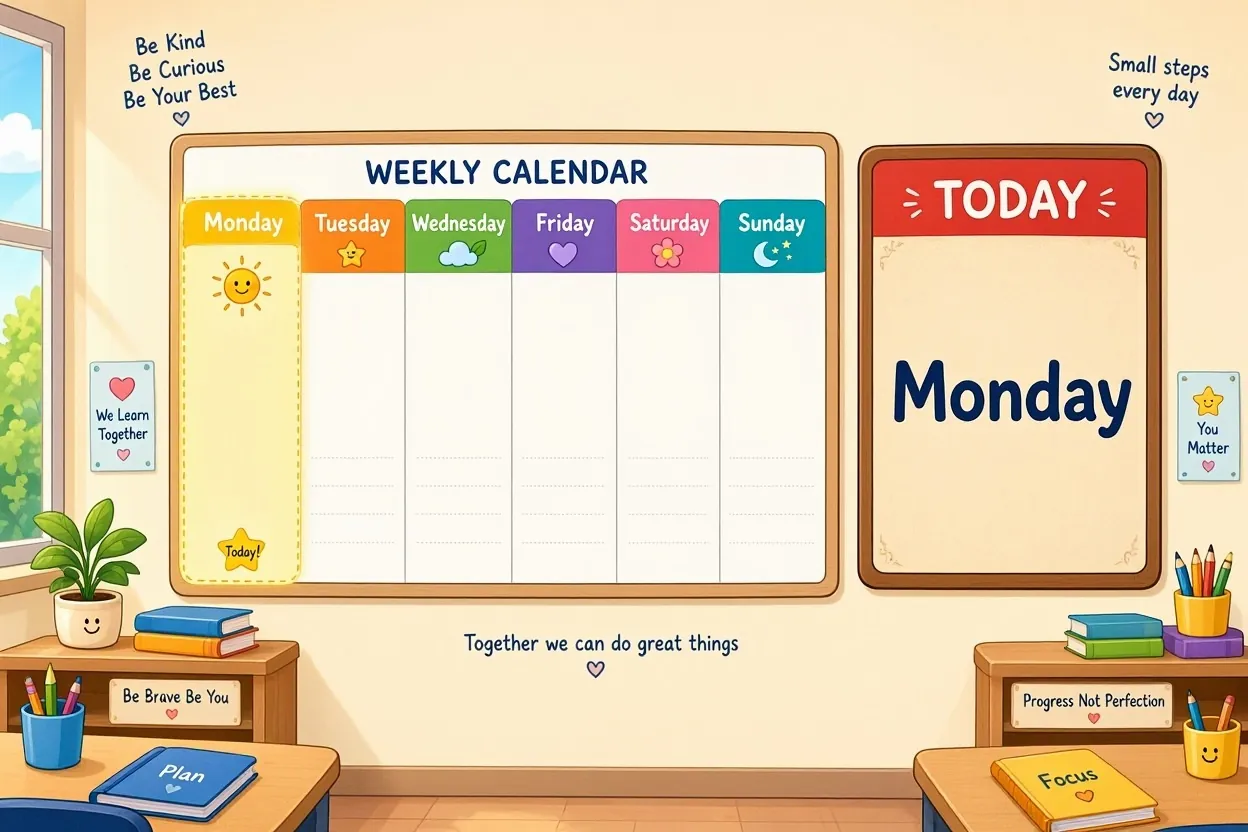
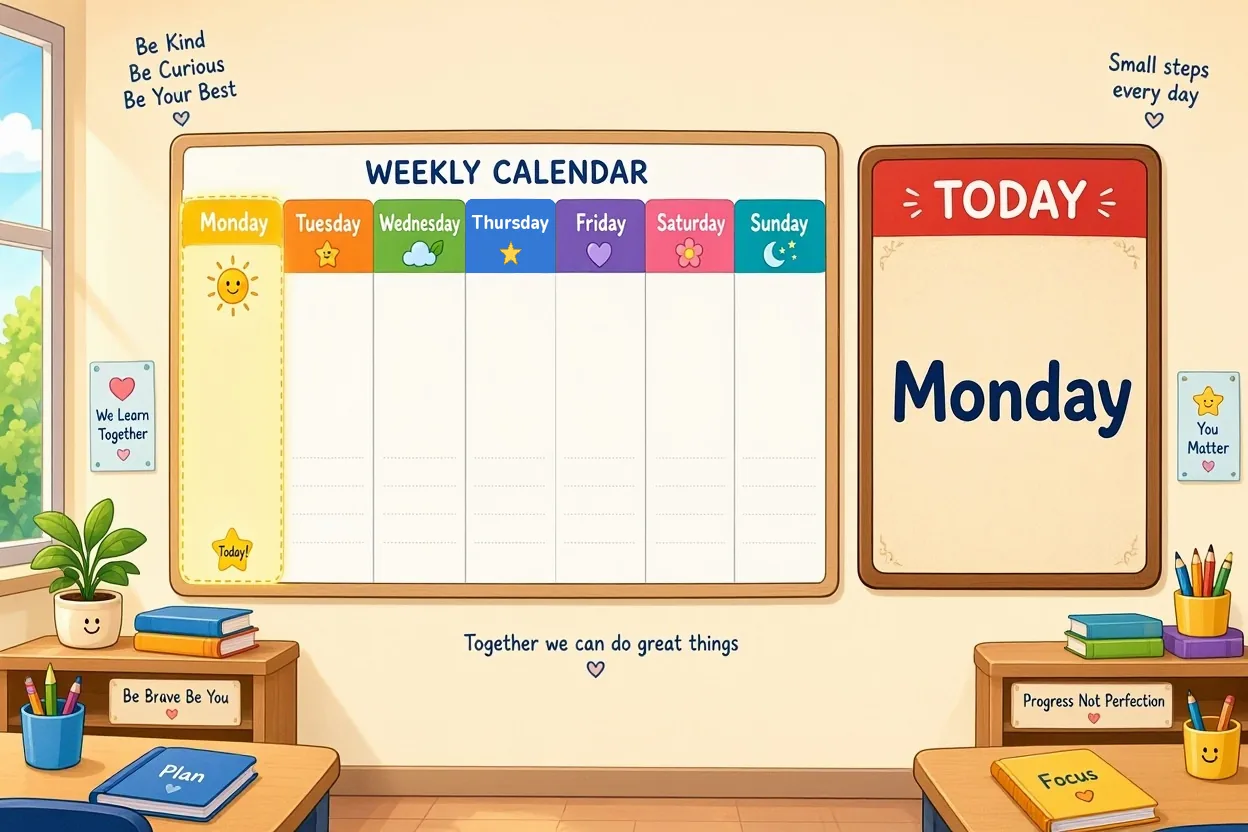
İngilizce 2: pazartesi resminin takvimine eksik Thursday sütunu (0.89.9)
The question pictures are fetched with ?v=2 so the old Monday image is not served from cache.

Claude-Session: https://claude.ai/code/session_01YcEfbD59WDyDZoSNkQrYYb

Changed region(s): [[0.1562, 0.2188, 0.6562, 0.7188]]

diff --git a/app/index.html b/app/index.html
@@ -164,4 +164,4 @@
   </div>
   <p class="app-version"></p>
 </dialog><script src="core/js/app.js?v=2"></script><script src="core/js/bulut-ayar.js?v=4"></script><script src="core/js/sync.js?v=7"></script><script src="core/js/sounds.js?v=13"></script><script src="core/js/fx.js?v=2"></script><script src="core/js/harita-sanat.js?v=3"></script><script src="core/js/akvaryum-veri.js?v=1"></script><script src="core/js/akvaryum-sanat.js?v=2"></script><script src="core/js/akvaryum.js?v=6"></script><script src="core/js/harita.js?v=3"></script><script src="islands/carpim/game.js?v=6"></script><script src="core/js/stats.js?v=5"></script><script src="core/js/profiles.js?v=7"></script><script src="islands/elif-ba/data.js?v=12"></script><script src="assets/audio/elif-ba/kayitlar.js?v=11"></script><script src="islands/elif-ba/voice.js?v=12"></script><script src="islands/elif-ba/games/art.js?v=1"></script><script src="islands/elif-ba/games/kinds.js?v=2"></script><script src="islands/elif-ba/games/listening.js?v=15"></script><script src="islands/elif-ba/games/bridge.js?v=11"></script><script src="islands/elif-ba/games/arcade.js?v=1"></script><script src="islands/elif-ba/games/yengec.js?v=1"></script><script src="islands/elif-ba/games/kabuk.js?v=1"></script><script src="islands/elif-ba/games/olta.js?v=1"></script><script src="islands/elif-ba/games/sepet.js?v=3"></script>
-<script src="islands/elif-ba/map.js?v=10"></script><script src="islands/elif-ba/game.js?v=26"></script><script src="assets/audio/ingilizce/kayitlar.js?v=3"></script><script src="core/js/kelime-resimleri.js?v=19"></script><script src="core/js/cizimler.js?v=15"></script><script src="core/js/resimler.js?v=20"></script><script src="core/js/ingilizce-oyunlari.js?v=19"></script><script src="core/js/quiz.js?v=19"></script><script src="islands/din-bilgisi/sorular.js?v=8"></script><script src="islands/din-bilgisi/game.js?v=6"></script><script src="islands/fen-bilimleri/sorular.js?v=4"></script><script src="islands/fen-bilimleri/game.js?v=3"></script><script src="islands/sosyal-bilgiler/sorular.js?v=4"></script><script src="islands/sosyal-bilgiler/game.js?v=2"></script><script src="islands/ingilizce-2/sorular.js?v=38"></script><script src="islands/ingilizce-2/sira.js?v=9"></script><script src="islands/ingilizce-2/sahneler.js?v=4"></script><script src="islands/ingilizce-2/istasyonlar.js?v=4"></script><script src="islands/ingilizce-2/game.js?v=6"></script><script src="islands/ingilizce-3/sorular.js?v=1"></script><script src="islands/ingilizce-3/game.js?v=3"></script><script src="islands/ingilizce-4/sorular.js?v=1"></script><script src="islands/ingilizce-4/game.js?v=3"></script><script src="core/js/settings.js?v=28"></script></body></html>
+<script src="islands/elif-ba/map.js?v=10"></script><script src="islands/elif-ba/game.js?v=26"></script><script src="assets/audio/ingilizce/kayitlar.js?v=3"></script><script src="core/js/kelime-resimleri.js?v=19"></script><script src="core/js/cizimler.js?v=15"></script><script src="core/js/resimler.js?v=20"></script><script src="core/js/ingilizce-oyunlari.js?v=20"></script><script src="core/js/quiz.js?v=19"></script><script src="islands/din-bilgisi/sorular.js?v=8"></script><script src="islands/din-bilgisi/game.js?v=6"></script><script src="islands/fen-bilimleri/sorular.js?v=4"></script><script src="islands/fen-bilimleri/game.js?v=3"></script><script src="islands/sosyal-bilgiler/sorular.js?v=4"></script><script src="islands/sosyal-bilgiler/game.js?v=2"></script><script src="islands/ingilizce-2/sorular.js?v=38"></script><script src="islands/ingilizce-2/sira.js?v=9"></script><script src="islands/ingilizce-2/sahneler.js?v=4"></script><script src="islands/ingilizce-2/istasyonlar.js?v=4"></script><script src="islands/ingilizce-2/game.js?v=6"></script><script src="islands/ingilizce-3/sorular.js?v=1"></script><script src="islands/ingilizce-3/game.js?v=3"></script><script src="islands/ingilizce-4/sorular.js?v=1"></script><script src="islands/ingilizce-4/game.js?v=3"></script><script src="core/js/settings.js?v=28"></script></body></html>

diff --git a/app/core/js/ingilizce-oyunlari.js b/app/core/js/ingilizce-oyunlari.js
@@ -1330,7 +1330,7 @@ const ingilizceOyunlari = (() => {
     // a small picture at the start of the stem ("[[y-today-tuesday]] Resme bak: …") gives way to the big one
     if (q.r) {
       m = s.match(/^(Evet diyerek cevap ver|Hayır diyerek cevap ver|Soruya doğru cevabı ver): “[^”]+”$/);
-      return { gorsel: '<div class="sahne-foto"><img src="assets/images/ingilizce/' + esc(q.r) + '.webp?v=1" alt="" draggable="false"></div>',
+      return { gorsel: '<div class="sahne-foto"><img src="assets/images/ingilizce/' + esc(q.r) + '.webp?v=2" alt="" draggable="false"></div>',
         metin: m ? esc(m[1]) + '.' : rich(s.replace(/^(\S+) (?=\S)/, (all, first) => /\p{Extended_Pictographic}|\[\[/u.test(first) ? '' : all)) };
     }
     if ((m = s.match(/^(Evet diyerek cevap ver|Hayır diyerek cevap ver|Soruya doğru cevabı ver): “([^”]+)”$/)) && q.a.every(isEnglish)) {

diff --git a/CHANGELOG.md b/CHANGELOG.md
@@ -7,6 +7,10 @@ Sürüm numarası `ANA.ÖZELLİK.DÜZELTME` biçimindedir ve `VERSION` dosyasın
 
 Yayınlanan sürüm, oyunun giriş ekranının ve Ayarlar penceresinin altında görünür.
 
+## 0.89.9 · 27.11.2026
+
+- **Pazartesi resminde perşembe:** Pazartesi sorusunun haftalık takviminde eksik olan Thursday sütunu eklendi; takvimde artık yedi gün sırasıyla duruyor.
+
 ## 0.89.8 · 27.11.2026
 
 - **Haftanın yedi günü büyük resimle:** “Resme bak: Bugün günlerden ne?” sorularına pazartesi ve cuma da eklendi; yedi günün hepsi artık haftalık takvimin büyük resmiyle soruluyor.
